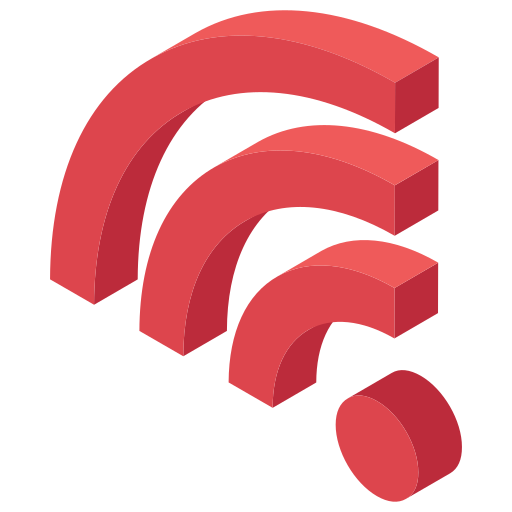
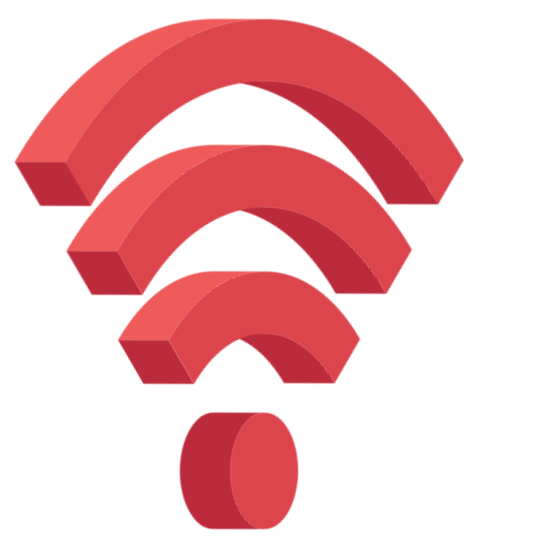
Push

diff --git a/lib/views/home/home_screen.dart b/lib/views/home/home_screen.dart
@@ -229,7 +229,7 @@ class _HomeScreenState extends State<HomeScreen> {
                     MaterialPageRoute(
                         builder: (_) => const ChangePasswordScreen()));
                 break;
-              case 'Logout':
+              /* case 'Logout':
                 showDialog(
                   context: context,
                   builder: (ctx) => AlertDialog(
@@ -243,7 +243,7 @@ class _HomeScreenState extends State<HomeScreen> {
                       TextButton(
                         onPressed: () async {
                           Navigator.pop(ctx);
-                          await AuthService().logout();
+                          _scaffoldKey.currentState?.closeDrawer();
                           widget.onLogout?.call();
                         },
                         child: const Text('Logout',
@@ -251,8 +251,12 @@ class _HomeScreenState extends State<HomeScreen> {
                       ),
                     ],
                   ),
-                );
+                ); */
+              case 'Logout':
+                _scaffoldKey.currentState?.closeDrawer();
+                widget.onLogout?.call();   // AppShell handles dialog + FCM + logout
                 break;
+
             }
           },
         ),
@@ -550,7 +554,7 @@ class _ServicesGrid extends StatelessWidget {
       case 'new_plan':    return 'assets/images/wifi-signal_2888720.png';
       case 'kyc':         return 'assets/images/kyc.png';
       case 'outstanding': return 'assets/images/document_17246597.png';
-      case 'my_bills':    return 'assets/images/pay_bills.png';
+      case 'my_bills':    return 'assets/images/bills.png';
       default:            return 'assets/images/pay_bills.png';
     }
   }
@@ -731,21 +735,32 @@ class _ServiceRectState extends State<_ServiceRect>
           ),
           padding: const EdgeInsets.symmetric(horizontal: 16),
           child: Row(
-            mainAxisAlignment: MainAxisAlignment.spaceBetween,
             children: [
-              Text(
-                widget.label,
-                style: const TextStyle(
-                  fontSize:   13.5,
-                  fontWeight: FontWeight.w600,
-                  color:      AppColors.textDark,
+              Expanded(
+                child: Text(
+                  widget.label,
+                  maxLines: 1,
+                  overflow: TextOverflow.ellipsis,
+                  style: const TextStyle(
+                    fontSize: 13.5,
+                    fontWeight: FontWeight.w600,
+                    color: AppColors.textDark,
+                  ),
                 ),
               ),
-              Image.asset(
-                widget.imageAsset,
-                width:  48,
-                height: 48,
-                fit:    BoxFit.contain,
+              const SizedBox(width: 12),
+              Container(
+                width: 64,
+                height: 64,
+                padding: const EdgeInsets.all(8),
+                decoration: BoxDecoration(
+                  color: Colors.white,
+                  borderRadius: BorderRadius.circular(12),
+                ),
+                child: Image.asset(
+                  widget.imageAsset,
+                  fit: BoxFit.contain,
+                ),
               ),
             ],
           ),

diff --git a/lib/services/auth_service.dart b/lib/services/auth_service.dart
@@ -68,7 +68,7 @@ class AuthService {
       phone: authData.user.phone,
       name:  authData.user.name,
     );
-    NotificationPushService().registerTokenAfterLogin();
+
   }
 
   AuthResult _handleDioError(DioException e) {
